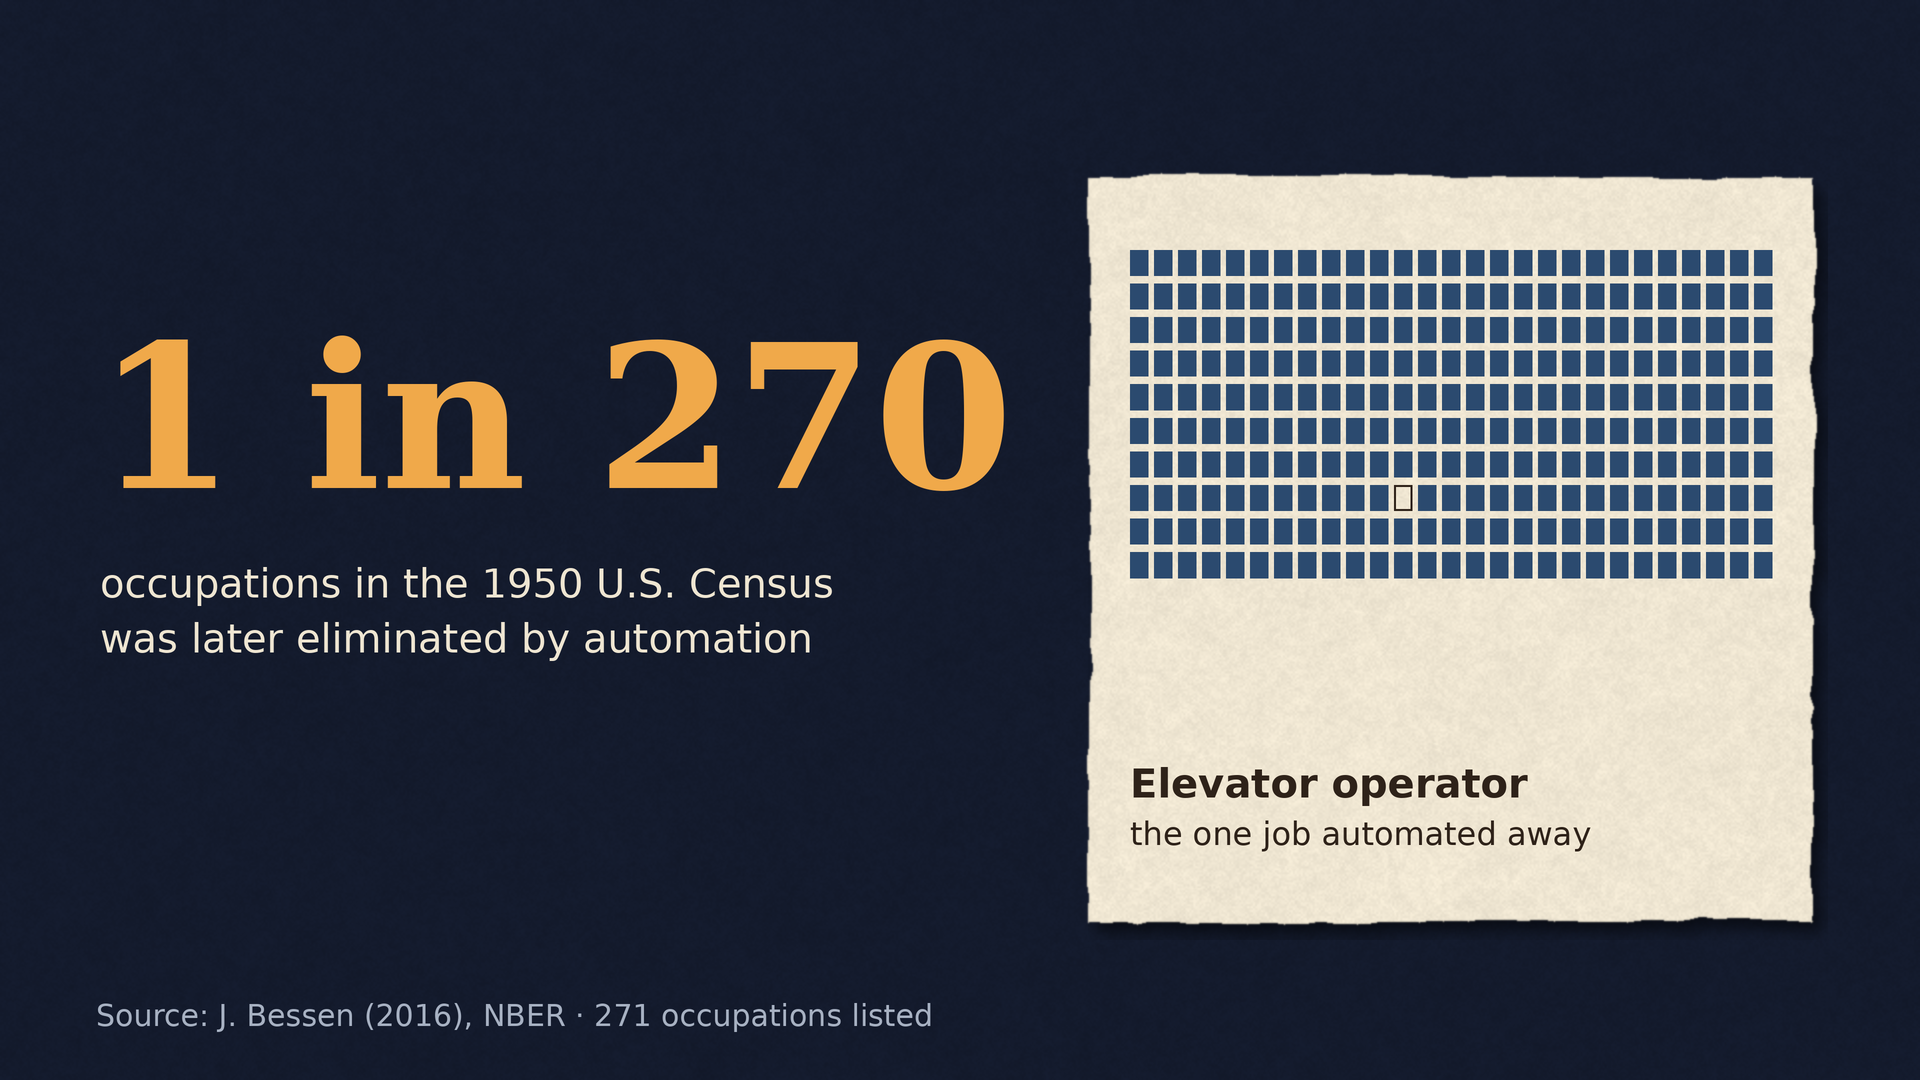
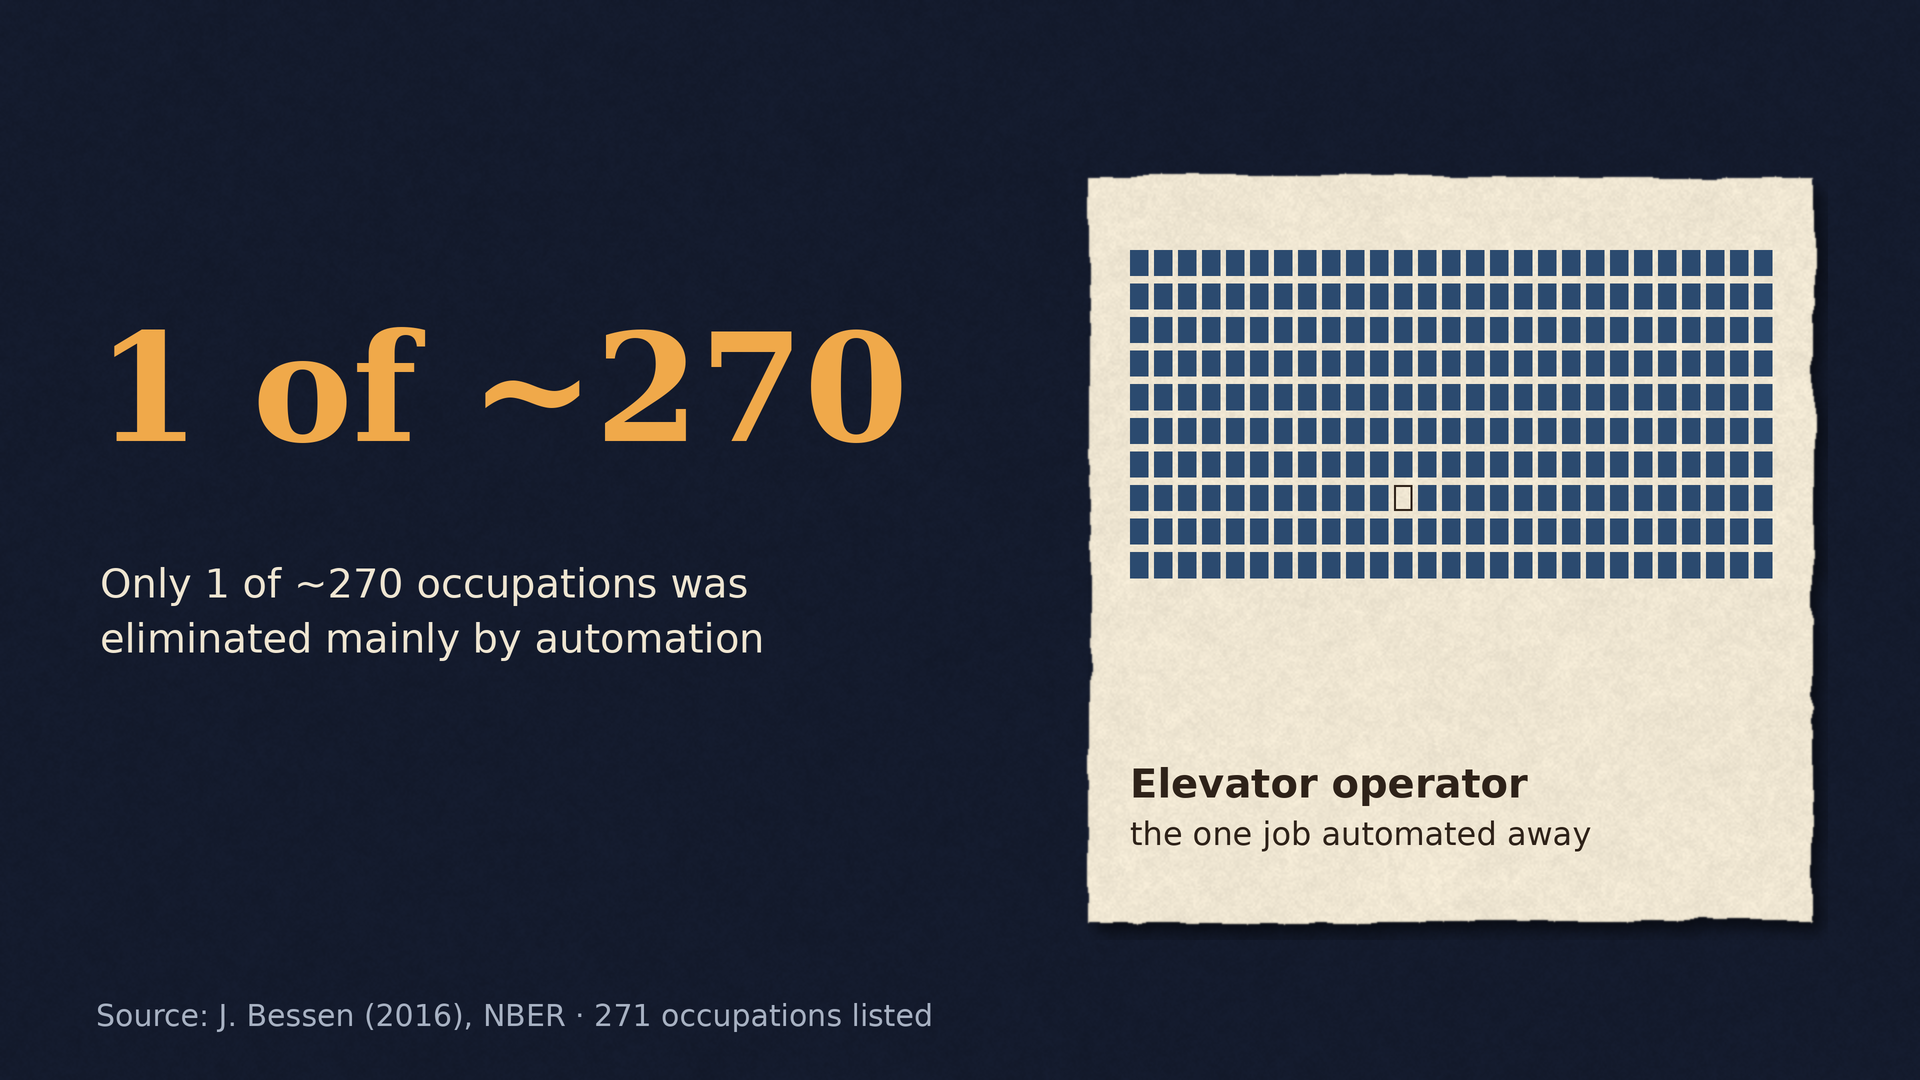
M2.1 (e): thẻ Bessen đúng câu duyệt 'Only 1 of ~270 occupations was eliminated mainly by automation'; frames.js --mid
Claude-Session: https://claude.ai/code/session_013vfSagBSEu3FHp4au7vwuU

Changed region(s): [[0.0625, 0.3056, 0.5312, 0.4583], [0.0312, 0.5194, 0.4375, 0.6111]]

diff --git a/design/m3/thu-phong-cach/frames.js b/design/m3/thu-phong-cach/frames.js
@@ -40,7 +40,7 @@ async function newPage(browser) {
   const r = await page.evaluate(async (cfg) => await window.setup(cfg), { W, H, shot: SHOT, nopaint: has('nopaint'), dbg });
   const setup_s = (Date.now() - a) / 1000;
   const f0 = Math.round(r.t0 * 24), f1 = Math.round(r.t1 * 24);
-  const pick = arg('frames') ? arg('frames').split(',').map(Number) : [];
+  const pick = arg('frames') ? arg('frames').split(',').map(Number) : has('mid') ? [(f0 + f1) >> 1] : [];   // --mid: khung giữa shot (M2.1 animatic)
   const all = has('all'), todo = all ? Array.from({ length: f1 - f0 }, (_, i) => f0 + i) : pick;
   let ff = null;
   if (all) ff = spawn('ffmpeg', ['-hide_banner', '-loglevel', 'error', '-y', '-f', 'rawvideo', '-pix_fmt', 'rgb24', '-s', `${W}x${H}`, '-framerate', '24', '-i', '-',

diff --git a/design/m3/thu-phong-cach/bo_mau.py b/design/m3/thu-phong-cach/bo_mau.py
@@ -111,9 +111,9 @@ def d_num(out):
         else: f.rect([x, y, x + s - 6, y + s * 1.4 - 8], BLUE)
     f.text((1130, 760), 'Elevator operator', 40, INK, 'sansb')
     f.text((1130, 815), 'the one job automated away', 32, INK)
-    f.text((96, 300), '1 in 270', 200, AMBER, 'serifb')
-    f.text((100, 560), 'occupations in the 1950 U.S. Census', 40, PAPER)
-    f.text((100, 615), 'was later eliminated by automation', 40, PAPER)
+    f.text((96, 300), '1 of ~270', 150, AMBER, 'serifb')   # M2.1 (e): câu chủ dự án duyệt
+    f.text((100, 560), 'Only 1 of ~270 occupations was', 40, PAPER)
+    f.text((100, 615), 'eliminated mainly by automation', 40, PAPER)
     src(f, 'Source: J. Bessen (2016), NBER · 271 occupations listed'); return f.save(out)
 
 def d_col(out):
